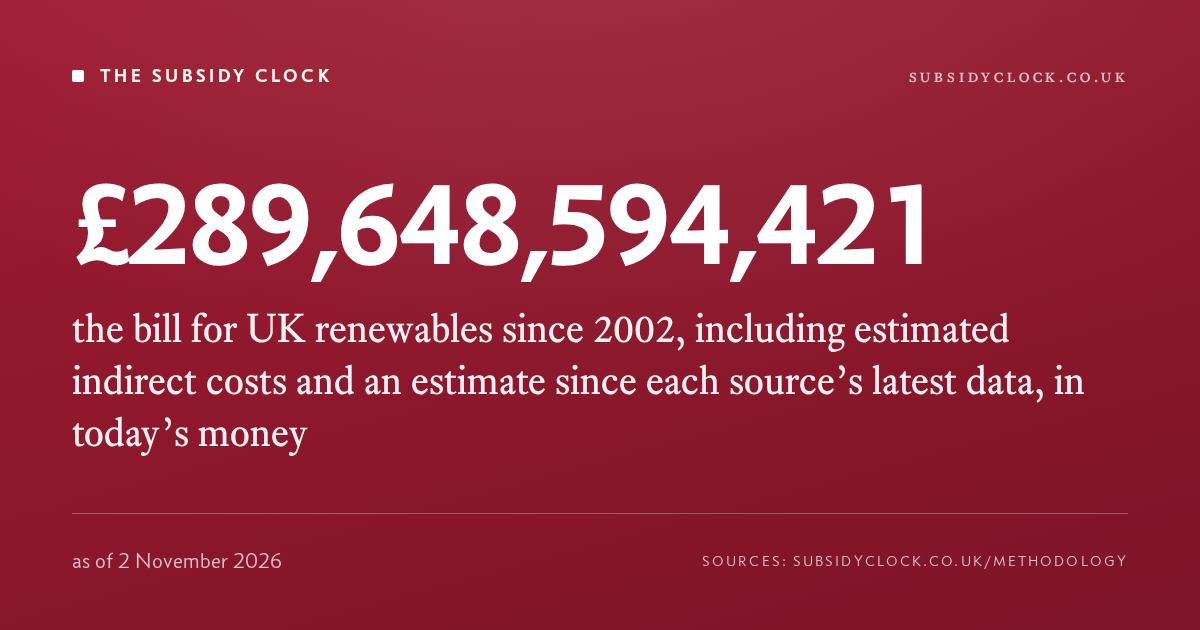
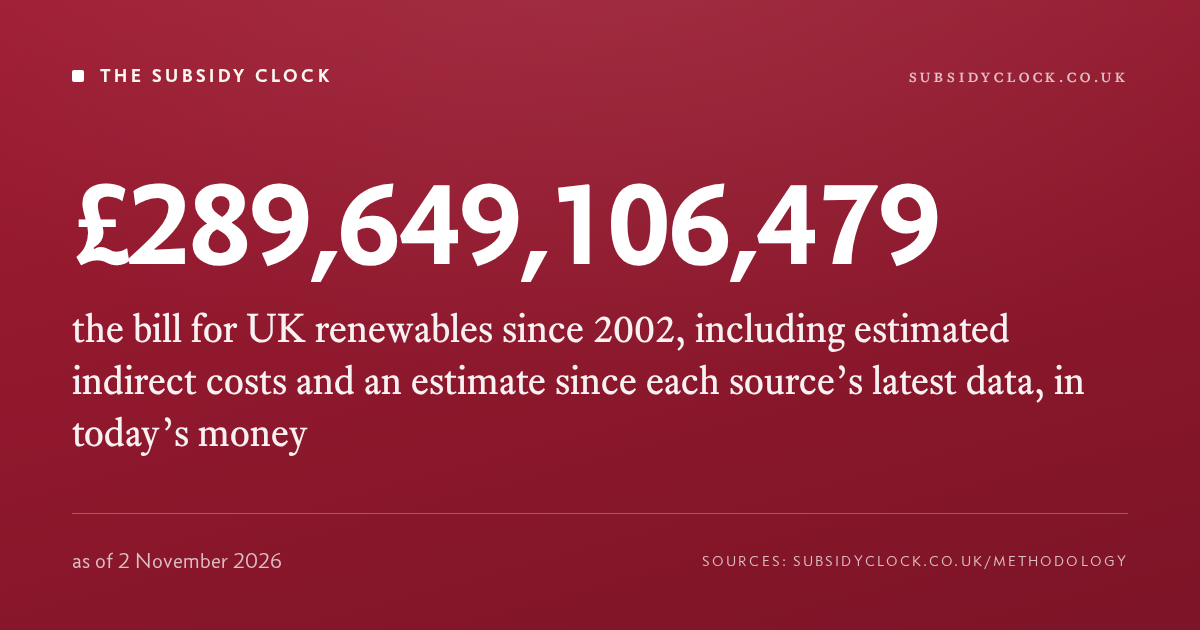
Methodology: 'indirect costs', not 'indirect subsidies'; Capacity Market explainer links the published Reliable Britain model instead of 'not yet published'; change-log entry extended (Richard, 2 Nov 2026)
tools/test.sh --release: 348 passed.

Changed region(s): [[0.4625, 0.2714, 0.6167, 0.4222], [0.6783, 0.2714, 0.8017, 0.4222], [0.37, 0.3016, 0.4317, 0.4222]]

diff --git a/site/methodology.html b/site/methodology.html
@@ -11,7 +11,7 @@
 <meta property="og:type" content="website">
 <meta property="og:site_name" content="The Subsidy Clock">
 <meta property="og:url" content="https://subsidyclock.co.uk/methodology">
-<meta property="og:image" content="https://subsidyclock.co.uk/share/headline.png?v=2b260a5e28">
+<meta property="og:image" content="https://subsidyclock.co.uk/share/headline.png?v=9aeca6fe24">
 <meta property="og:image:width" content="1200">
 <meta property="og:image:height" content="630">
 <meta name="twitter:card" content="summary_large_image">
@@ -56,7 +56,7 @@
 
   <p class="page-index">On this page:
     <a href="#perspectives">Perspectives</a> ·
-    <a href="#indirect">Indirect subsidies</a> ·
+    <a href="#indirect">Indirect costs</a> ·
     <a href="#headline-figure">How the headline figure is made up</a> ·
     <a href="#prices">Nominal &amp; 2024 prices</a> ·
     <a href="#sources">Sources that are not official statistics</a> ·
@@ -91,7 +91,7 @@
   <h2 id="perspectives">Perspectives: renewables, and all low-carbon</h2>
   <p>The dashboard's headline counts <strong>renewable generators</strong> — wind, solar, hydro and the biomass plants (Drax and the like) that hold renewable contracts and count towards the UK's renewable targets. The all-low-carbon view adds the one kind of low-carbon generation that is not renewable: nuclear. Hinkley Point C has not yet generated, so its CfD payments stand at <span class="num" id="persp-delta"></span>: the all-low-carbon total (<span class="num" id="persp-lowcarbon"></span>) is for now identical to the renewables headline (<span class="num" id="persp-renewables"></span>), and the gap will open only once Hinkley begins to pay out. Indirect costs (network, balancing, carbon pricing, capacity) are tracked separately and always marked estimated. The dashboard's <em>Include indirect costs</em> switch controls whether they are added to the headline counter; it starts on, so the figure you first see is the combined total, and the counter's own caption says so. Switch it off and the counter falls back to the direct, measured payments alone.</p>
 
-  <h2 id="indirect">Indirect subsidies (estimated)</h2>
+  <h2 id="indirect">Indirect costs (estimated)</h2>
   <p>Beyond the direct schemes above, renewable generation imposes costs that reach bill-payers and taxpayers through network charges, balancing costs, carbon pricing and the capacity levy. The dashboard shows these as ‘the indirect bill’, always marked <strong>estimated</strong>: each component’s <em>amount</em> is measured from official and primary sources (Ofgem, NESO, HMRC, LCCC, National Grid, the NAO and ONS), or modelled by the engine behind Reliable Britain where no measurement exists, as each component’s source notes say, and the share <em>attributable</em> to net-zero policy is a stated judgement. The attribution rule for each component is quoted verbatim below. From 2017 onwards the BSUoS series is measured from NESO’s settled data; the hand-maintained years end at 2016 because the settled data begins on 1 April 2016 and so covers no complete calendar year before 2017.</p>
 
   <h3>Capacity Market</h3>
@@ -233,7 +233,7 @@
     <li><strong>The share of the Capacity Market counted as a cost of net zero</strong> comes from
     the model of the power system without net-zero policy behind Reliable Britain, as do the
     no-net-zero comparisons for grid and balancing charges and the carbon line (see
-    <a href="#indirect">Indirect subsidies</a>).</li>
+    <a href="#indirect">Indirect costs</a>).</li>
     <li><strong>The stadium comparison</strong> uses the cost of the Tottenham Hotspur Stadium as
     given on <a href="https://en.wikipedia.org/wiki/Tottenham_Hotspur_Stadium">Wikipedia</a>.</li>
     <li><strong>Other comparison figures</strong> use the published source named beside each one,

diff --git a/site/s/total.html b/site/s/total.html
@@ -3,14 +3,14 @@
 <head>
 <meta charset="utf-8">
 <meta name="robots" content="noindex">
-<title>£144,480,926,690 paid in direct subsidy to renewable electricity generators since 2002, in today’s money, including an estimate since each source’s latest data — The Subsidy Clock</title>
+<title>£144,481,191,634 paid in direct subsidy to renewable electricity generators since 2002, in today’s money, including an estimate since each source’s latest data — The Subsidy Clock</title>
 <meta name="description" content="As of 2 November 2026. Every figure links to its source.">
-<meta property="og:title" content="£144,480,926,690 paid in direct subsidy to renewable electricity generators since 2002, in today’s money, including an estimate since each source’s latest data">
+<meta property="og:title" content="£144,481,191,634 paid in direct subsidy to renewable electricity generators since 2002, in today’s money, including an estimate since each source’s latest data">
 <meta property="og:description" content="As of 2 November 2026. Every figure links to its source.">
 <meta property="og:type" content="website">
 <meta property="og:site_name" content="The Subsidy Clock">
 <meta property="og:url" content="https://subsidyclock.co.uk/s/total">
-<meta property="og:image" content="https://subsidyclock.co.uk/share/total.png?v=7e77ded22c">
+<meta property="og:image" content="https://subsidyclock.co.uk/share/total.png?v=22eb407272">
 <meta property="og:image:width" content="1200">
 <meta property="og:image:height" content="630">
 <meta name="twitter:card" content="summary_large_image">
@@ -18,7 +18,7 @@
 <meta http-equiv="refresh" content="0;url=https://subsidyclock.co.uk/">
 </head>
 <body>
-<p>£144,480,926,690 paid in direct subsidy to renewable electricity generators since 2002, in today’s money, including an estimate since each source’s latest data (as of 2 November 2026) — <a href="https://subsidyclock.co.uk/">The Subsidy Clock</a>.</p>
+<p>£144,481,191,634 paid in direct subsidy to renewable electricity generators since 2002, in today’s money, including an estimate since each source’s latest data (as of 2 November 2026) — <a href="https://subsidyclock.co.uk/">The Subsidy Clock</a>.</p>
 <script>location.replace("https://subsidyclock.co.uk/");</script>
 </body>
 </html>

diff --git a/site/s/headline.html b/site/s/headline.html
@@ -3,14 +3,14 @@
 <head>
 <meta charset="utf-8">
 <meta name="robots" content="noindex">
-<title>£289,648,594,421 the bill for UK renewables since 2002, including estimated indirect costs and an estimate since each source’s latest data, in today’s money — The Subsidy Clock</title>
+<title>£289,649,106,479 the bill for UK renewables since 2002, including estimated indirect costs and an estimate since each source’s latest data, in today’s money — The Subsidy Clock</title>
 <meta name="description" content="As of 2 November 2026. Every figure links to its source.">
-<meta property="og:title" content="£289,648,594,421 the bill for UK renewables since 2002, including estimated indirect costs and an estimate since each source’s latest data, in today’s money">
+<meta property="og:title" content="£289,649,106,479 the bill for UK renewables since 2002, including estimated indirect costs and an estimate since each source’s latest data, in today’s money">
 <meta property="og:description" content="As of 2 November 2026. Every figure links to its source.">
 <meta property="og:type" content="website">
 <meta property="og:site_name" content="The Subsidy Clock">
 <meta property="og:url" content="https://subsidyclock.co.uk/s/headline">
-<meta property="og:image" content="https://subsidyclock.co.uk/share/headline.png?v=2b260a5e28">
+<meta property="og:image" content="https://subsidyclock.co.uk/share/headline.png?v=9aeca6fe24">
 <meta property="og:image:width" content="1200">
 <meta property="og:image:height" content="630">
 <meta name="twitter:card" content="summary_large_image">
@@ -18,7 +18,7 @@
 <meta http-equiv="refresh" content="0;url=https://subsidyclock.co.uk/">
 </head>
 <body>
-<p>£289,648,594,421 the bill for UK renewables since 2002, including estimated indirect costs and an estimate since each source’s latest data, in today’s money (as of 2 November 2026) — <a href="https://subsidyclock.co.uk/">The Subsidy Clock</a>.</p>
+<p>£289,649,106,479 the bill for UK renewables since 2002, including estimated indirect costs and an estimate since each source’s latest data, in today’s money (as of 2 November 2026) — <a href="https://subsidyclock.co.uk/">The Subsidy Clock</a>.</p>
 <script>location.replace("https://subsidyclock.co.uk/");</script>
 </body>
 </html>

diff --git a/site/embed/widget.html b/site/embed/widget.html
@@ -36,7 +36,7 @@
 </style>
 </head>
 <body>
-  <div class="fig" id="fig">£289,648,594,421</div>
+  <div class="fig" id="fig">£289,649,106,479</div>
   <div class="meta">
     <div class="what"><span id="what">paid to UK renewable generators plus estimated indirect system costs since 2002</span> · as of <span id="asof">2 November 2026</span></div>
     <div class="attr"><a href="https://subsidyclock.co.uk" target="_blank" rel="noopener">The Subsidy Clock — subsidyclock.co.uk</a></div>
@@ -45,7 +45,7 @@
 (function () {
   'use strict';
   // stamped at build time; the fetch below refreshes them if this file is cached
-  var stamped = { "cum": 289648594421.39355, "rate": 694.027127187672, "generated": "2026-11-02T13:20:46.388977+00:00" };
+  var stamped = { "cum": 289649106479.9332, "rate": 694.027127187672, "generated": "2026-11-02T13:33:04.196650+00:00" };
 
   var q = new URLSearchParams(location.search);
   var size = q.get('size');

diff --git a/site/explainers/capacity-market.html b/site/explainers/capacity-market.html
@@ -86,7 +86,7 @@
     <h2>How sure are we?</h2>
     <p>Capacity Market settlement payments are measured from LCCC's published data — the levy is
     solid. What is estimated is the share net zero caused, which comes from a model of the system
-    without net-zero policy (not yet published). The figure is a floor: that system is charged the
+    without net-zero policy, published with <a href="https://richardlyon.net/research/reliable-britain/">Reliable Britain</a>: report, technical paper and <a href="https://github.com/richardjlyon/gas-counterfactual/releases/tag/v4-s43">model</a>. The figure is a floor: that system is charged the
     capacity price that actually cleared, though an emissions limit that kept about 11&nbsp;GW of coal
     out of the auctions from 2021 pushed prices up, and no published source measures how much of
     that rise net zero caused. Until 13 October 2026 the Clock counted the whole levy; see the

diff --git a/site/papers/scotland-2026/index.html b/site/papers/scotland-2026/index.html
@@ -10,7 +10,7 @@
 <meta property="og:type" content="article">
 <meta property="og:site_name" content="The Subsidy Clock">
 <meta property="og:url" content="https://subsidyclock.co.uk/papers/scotland-2026">
-<meta property="og:image" content="https://subsidyclock.co.uk/share/headline.png?v=2b260a5e28">
+<meta property="og:image" content="https://subsidyclock.co.uk/share/headline.png?v=9aeca6fe24">
 <meta property="og:image:width" content="1200">
 <meta property="og:image:height" content="630">
 <meta name="twitter:card" content="summary_large_image">

diff --git a/site/corrections.html b/site/corrections.html
@@ -11,7 +11,7 @@
 <meta property="og:type" content="website">
 <meta property="og:site_name" content="The Subsidy Clock">
 <meta property="og:url" content="https://subsidyclock.co.uk/corrections">
-<meta property="og:image" content="https://subsidyclock.co.uk/share/headline.png?v=2b260a5e28">
+<meta property="og:image" content="https://subsidyclock.co.uk/share/headline.png?v=9aeca6fe24">
 <meta property="og:image:width" content="1200">
 <meta property="og:image:height" content="630">
 <meta name="twitter:card" content="summary_large_image">

diff --git a/site/changelog.html b/site/changelog.html
@@ -11,7 +11,7 @@
 <meta property="og:type" content="website">
 <meta property="og:site_name" content="The Subsidy Clock">
 <meta property="og:url" content="https://subsidyclock.co.uk/changelog">
-<meta property="og:image" content="https://subsidyclock.co.uk/share/headline.png?v=2b260a5e28">
+<meta property="og:image" content="https://subsidyclock.co.uk/share/headline.png?v=9aeca6fe24">
 <meta property="og:image:width" content="1200">
 <meta property="og:image:height" content="630">
 <meta name="twitter:card" content="summary_large_image">

diff --git a/site/scotland.html b/site/scotland.html
@@ -11,7 +11,7 @@
 <meta property="og:type" content="website">
 <meta property="og:site_name" content="The Subsidy Clock">
 <meta property="og:url" content="https://subsidyclock.co.uk/scotland">
-<meta property="og:image" content="https://subsidyclock.co.uk/share/headline.png?v=2b260a5e28">
+<meta property="og:image" content="https://subsidyclock.co.uk/share/headline.png?v=9aeca6fe24">
 <meta property="og:image:width" content="1200">
 <meta property="og:image:height" content="630">
 <meta name="twitter:card" content="summary_large_image">

diff --git a/site/about.html b/site/about.html
@@ -11,7 +11,7 @@
 <meta property="og:type" content="website">
 <meta property="og:site_name" content="The Subsidy Clock">
 <meta property="og:url" content="https://subsidyclock.co.uk/about">
-<meta property="og:image" content="https://subsidyclock.co.uk/share/headline.png?v=2b260a5e28">
+<meta property="og:image" content="https://subsidyclock.co.uk/share/headline.png?v=9aeca6fe24">
 <meta property="og:image:width" content="1200">
 <meta property="og:image:height" content="630">
 <meta name="twitter:card" content="summary_large_image">

diff --git a/site/embed.html b/site/embed.html
@@ -11,7 +11,7 @@
 <meta property="og:type" content="website">
 <meta property="og:site_name" content="The Subsidy Clock">
 <meta property="og:url" content="https://subsidyclock.co.uk/embed">
-<meta property="og:image" content="https://subsidyclock.co.uk/share/headline.png?v=2b260a5e28">
+<meta property="og:image" content="https://subsidyclock.co.uk/share/headline.png?v=9aeca6fe24">
 <meta property="og:image:width" content="1200">
 <meta property="og:image:height" content="630">
 <meta name="twitter:card" content="summary_large_image">

diff --git a/site/share.html b/site/share.html
@@ -11,7 +11,7 @@
 <meta property="og:type" content="website">
 <meta property="og:site_name" content="The Subsidy Clock">
 <meta property="og:url" content="https://subsidyclock.co.uk/share">
-<meta property="og:image" content="https://subsidyclock.co.uk/share/headline.png?v=2b260a5e28">
+<meta property="og:image" content="https://subsidyclock.co.uk/share/headline.png?v=9aeca6fe24">
 <meta property="og:image:width" content="1200">
 <meta property="og:image:height" content="630">
 <meta name="twitter:card" content="summary_large_image">
